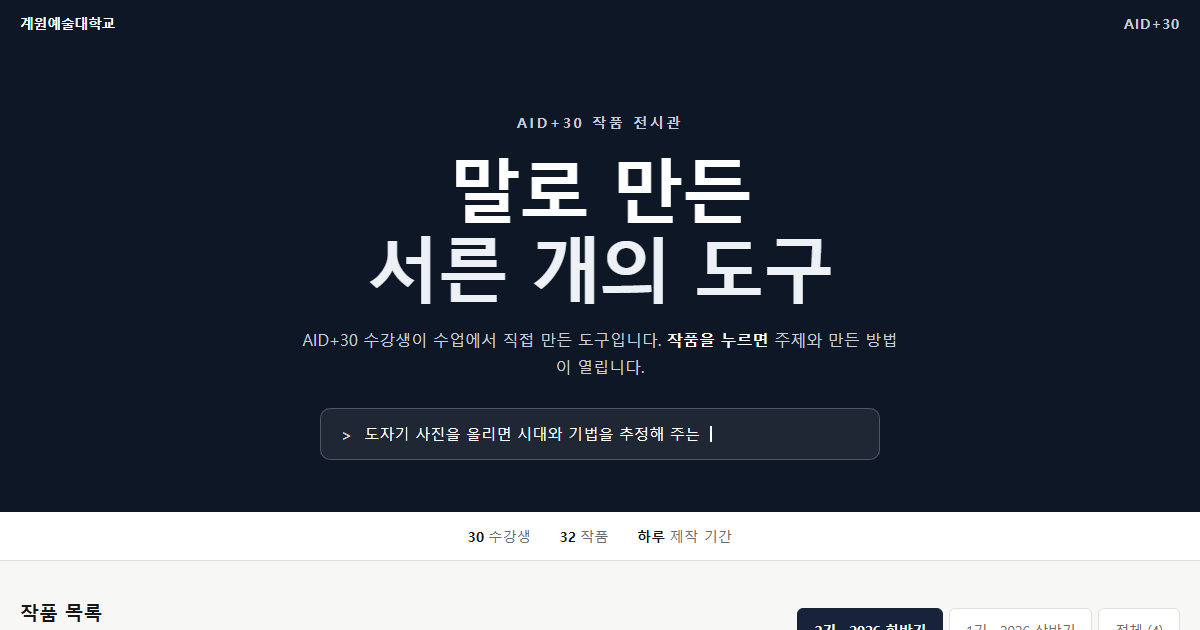
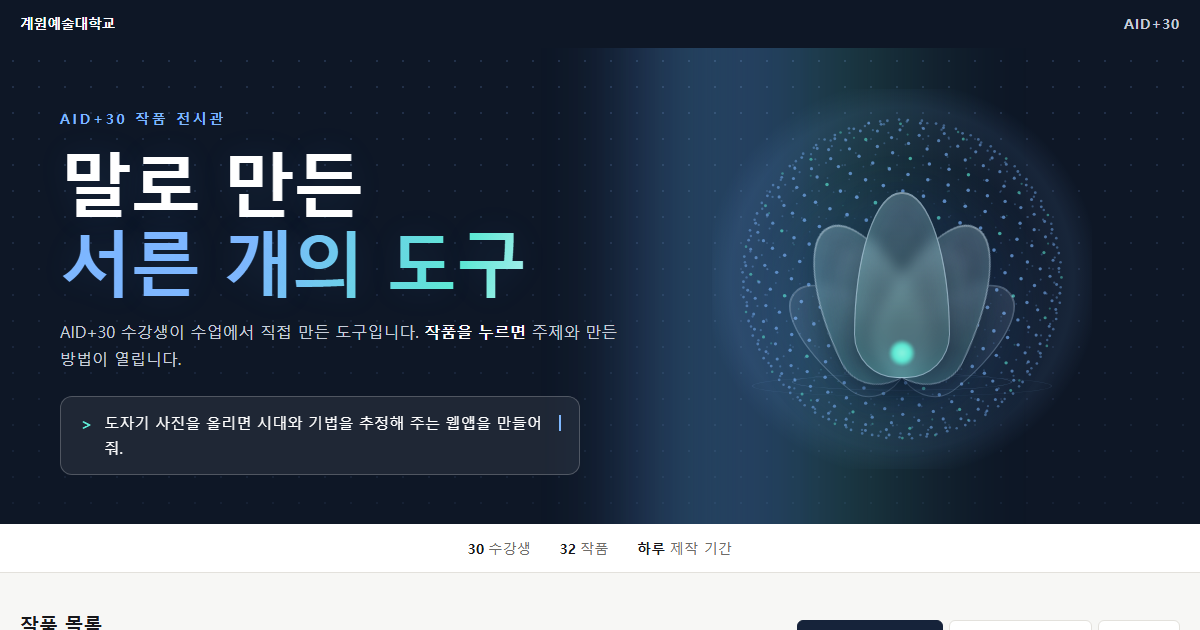
feat: 히어로 2단 구성 — 무대 배경·시머·글래스 연꽃·닷 스피어
- 부여 전시관 원형의 히어로 화면 구성 참조 (사용자 지시로 명세 3절 '버릴 것' 일부 채택)
- 왼쪽 카피 + 오른쪽 연출 2단 그리드, 점 격자·빔 스윕 무대 배경
- 강조 줄 그라데이션 + 시머, 타이핑 카드 글래스·플로팅
- 연출 색 전부 :root 토큰화, 캔버스 색도 토큰에서 읽음
- prefers-reduced-motion: 전 연출 최종 상태 즉시 표시, 닷 스피어는 정지 화면
- og.png 재캡처

diff --git a/index.html b/index.html
@@ -41,6 +41,23 @@
   --glass-bg:          rgba(255,255,255,.07);
   --glass-line:        rgba(255,255,255,.22);
 
+  /* 히어로 연출 색 — 어두운 무대 위 빛 포인트 (부여 원형 참조) */
+  --hero-accent-1:    #7FB8FF;              /* 하늘빛 포인트 */
+  --hero-accent-2:    #5EEAD4;              /* 민트빛 포인트 */
+  --hero-accent-2-hi: #8CF3DF;              /* 민트 하이라이트 (연꽃 심) */
+  --hero-accent-3:    #EAF6FF;              /* 시머 하이라이트 */
+  --stage-dot:        rgba(140,180,255,.20);/* 점 격자 */
+  --beam-a:           rgba(90,160,255,.30); /* 빔 스윕 */
+  --beam-b:           rgba(94,234,212,.18);
+  --halo-a:           rgba(94,234,212,.16); /* 후광 */
+  --halo-b:           rgba(90,160,255,.10);
+  --petal-line:       rgba(185,220,255,.38);/* 글래스 연꽃 */
+  --petal-fill:       rgba(205,230,255,.16);
+  --petal-front-line: rgba(205,235,255,.5);
+  --petal-front-fill: rgba(215,238,255,.22);
+  --petal-glow:       rgba(90,160,255,.08);
+  --ripple-line:      rgba(150,195,255,.28);
+
   /* 타이포 — 웹폰트 없음, 시스템 폰트만 */
   --font-display: "Pretendard","Apple SD Gothic Neo","Malgun Gothic",sans-serif;
   --font-body:    "Pretendard","Apple SD Gothic Neo","Malgun Gothic",sans-serif;
@@ -67,49 +84,187 @@ button{font-family:inherit;cursor:pointer}
 .gov-bar .org img{height:30px;width:auto}
 .gov-bar .prog{color:var(--on-brand-muted);font-weight:600;letter-spacing:.08em;white-space:nowrap}
 
-/* ---------- 히어로 ---------- */
+/* ---------- 히어로 — 2단 구성: 왼쪽 카피 + 오른쪽 연출 무대 ---------- */
 .hero{
+  position:relative;overflow:hidden;
   background:var(--brand-deep);color:var(--on-brand);
-  text-align:center;padding:60px 20px 52px;
+  padding:56px 24px 48px;
 }
-.hero .eyebrow{
+/* 무대 배경: 점 격자 + 빔 스윕 */
+.stage{position:absolute;inset:0;z-index:1;pointer-events:none}
+.grid-dots{
+  position:absolute;inset:0;
+  background-image:radial-gradient(var(--stage-dot) 1px, transparent 1.4px);
+  background-size:26px 26px;
+  -webkit-mask-image:linear-gradient(180deg,rgba(0,0,0,.85),rgba(0,0,0,.3));
+  mask-image:linear-gradient(180deg,rgba(0,0,0,.85),rgba(0,0,0,.3));
+}
+.beam{
+  position:absolute;top:-45%;height:190%;width:32vw;min-width:300px;left:50%;
+  background:linear-gradient(90deg,transparent,var(--beam-a) 45%,var(--beam-b) 58%,transparent);
+  filter:blur(36px);mix-blend-mode:screen;
+  animation:sweep 28s linear infinite;
+}
+.beam.b2{width:14vw;min-width:160px;opacity:.65;animation-delay:-14s}
+@keyframes sweep{
+  from{transform:translateX(-92vw) rotate(14deg)}
+  to  {transform:translateX(92vw)  rotate(14deg)}
+}
+.hero-inner{
+  position:relative;z-index:2;
+  max-width:1080px;margin:0 auto;
+  display:grid;grid-template-columns:1.08fr .92fr;
+  align-items:center;gap:44px;
+  text-align:left;
+}
+.hero-copy{min-width:0}
+.eyebrow{
   display:inline-block;font-size:.85rem;font-weight:700;
-  letter-spacing:.22em;color:var(--on-brand-muted);
+  letter-spacing:.22em;color:var(--hero-accent-1);
 }
 .hero h1{
   font-family:var(--font-display);
   font-size:clamp(2.4rem,6vw,4.6rem);font-weight:700;
   letter-spacing:-.03em;line-height:1.1;
-  margin:14px 0 18px;
+  margin:12px 0 16px;
+  text-shadow:0 0 34px var(--halo-b);
 }
-.hero h1 .accent{color:var(--brand-tint)}  /* 강조 줄 (titleGlow) */
-.hero-sub{font-size:1rem;color:var(--on-brand-muted);max-width:600px;margin:0 auto}
+/* 강조 줄 — 그라데이션 글자 + 빛 훑기(시머) */
+.hero h1 .glow{
+  background:linear-gradient(110deg,var(--hero-accent-1) 18%,var(--hero-accent-2) 38%,var(--hero-accent-3) 50%,var(--hero-accent-2) 62%,var(--hero-accent-1) 82%);
+  background-size:230% 100%;
+  -webkit-background-clip:text;background-clip:text;color:transparent;
+  display:inline-block;opacity:0;transform:translateY(24px);
+  animation:rise .6s .38s cubic-bezier(.2,.7,.3,1) both,
+            shimmer 7s ease-in-out 1.6s infinite;
+}
+@keyframes shimmer{0%,100%{background-position:0% 0}50%{background-position:100% 0}}
+.hero-sub{font-size:1rem;color:var(--on-brand-muted);max-width:560px}
 .hero-sub b{color:var(--on-brand);font-weight:700}
 
-/* 모션 1 — 제목 단어별 등장 (0.14s 간격) */
+/* 모션 — 단어별 등장 · 요소 등장 */
 .w{display:inline-block;opacity:0;transform:translateY(24px);
   animation:rise .6s cubic-bezier(.2,.7,.3,1) both}
+.fx{opacity:0;transform:translateY(14px);
+  animation:rise .6s .7s cubic-bezier(.2,.7,.3,1) both}
 @keyframes rise{to{opacity:1;transform:translateY(0)}}
+@keyframes floatY{0%,100%{transform:translateY(0)}50%{transform:translateY(-6px)}}
 
-/* 모션 2 — 타이핑 카드. 문구는 ITEMS의 prompt·제목에서 생성 */
+/* 타이핑 카드 — 문구는 ITEMS의 prompt·제목에서 생성 */
 .prompt-line{
-  max-width:560px;margin:28px auto 0;
-  background:var(--glass-bg);border:1px solid var(--glass-line);
-  border-radius:10px;padding:12px 18px;text-align:left;
+  max-width:520px;margin:24px 0 0;
+  background:var(--glass-bg);
+  backdrop-filter:blur(10px);-webkit-backdrop-filter:blur(10px);
+  border:1px solid var(--glass-line);
+  border-radius:12px;padding:13px 18px;text-align:left;
   font-size:.95rem;color:var(--on-brand);
   display:flex;align-items:flex-start;gap:10px;
+  opacity:0;
+  animation:rise .6s .8s cubic-bezier(.2,.7,.3,1) both,
+            floatY 6s ease-in-out 1.8s infinite;
 }
-.prompt-line .mark{color:var(--on-brand-muted);font-weight:700}
+.prompt-line .mark{color:var(--hero-accent-2);font-weight:900}
 .prompt-line .typed{min-height:1.7em}
 .caret{display:inline-block;width:2px;height:1.05em;
   margin-top:.35em;flex:none;
-  background:var(--on-brand);animation:blink 1s steps(1) infinite}
+  background:var(--hero-accent-1);animation:blink 1s steps(1) infinite}
 @keyframes blink{50%{opacity:0}}
 
-/* 감속 설정 — 연출을 최종 상태로 즉시 표시 */
+/* ---------- 오른쪽 연출: 디지털 닷 스피어 + 글래스 연꽃 ---------- */
+.hero-visual{position:relative;display:flex;justify-content:center;align-items:flex-end;min-height:280px}
+.globe{
+  position:absolute;left:50%;top:46%;
+  width:380px;height:380px;
+  transform:translate(-50%,-50%);
+  pointer-events:none;opacity:.9;
+}
+.lotus{
+  position:relative;z-index:1;width:330px;height:255px;
+  animation:floatY 8s ease-in-out 2s infinite;
+}
+.lotus::before{ /* 후광 */
+  content:"";position:absolute;left:50%;top:52%;width:300px;height:300px;
+  transform:translate(-50%,-50%);
+  background:radial-gradient(circle,var(--halo-a) 0%,var(--halo-b) 45%,transparent 70%);
+  filter:blur(6px);
+}
+.petal{
+  position:absolute;left:50%;bottom:52px;
+  transform-origin:50% 100%;
+  border:1px solid var(--petal-line);
+  background:linear-gradient(180deg,var(--petal-fill) 0%,rgba(255,255,255,.03) 70%);
+  box-shadow:inset 0 1px 0 rgba(255,255,255,.28), inset 0 -8px 22px var(--petal-glow);
+  border-radius:50% 50% 46% 46% / 78% 78% 24% 24%;
+  /* 반복 개화(5초 주기): 피어남 → 만개 유지 → 오므림 → 다시 개화 */
+  --r:0deg; --d:.8s; --po:1;
+  opacity:0;
+  animation:bloomLoop 5s ease-in-out infinite;
+  animation-delay:var(--d);
+}
+@keyframes bloomLoop{
+  0%{transform:rotate(calc(var(--r) * .12)) scale(.5,.3);opacity:0}
+  12%{opacity:var(--po)}
+  20%,80%{transform:rotate(var(--r)) scale(1,1);opacity:var(--po)}
+  93%,100%{transform:rotate(calc(var(--r) * .12)) scale(.5,.3);opacity:0}
+}
+.pb{width:84px;height:138px;margin-left:-42px;--po:.75}
+.p1{--r:-52deg;--d:.75s} .p2{--r:-19deg;--d:.95s}
+.p3{--r:19deg;--d:.95s}  .p4{--r:52deg;--d:.75s}
+.pf{
+  width:96px;height:186px;margin-left:-48px;
+  background:linear-gradient(180deg,var(--petal-front-fill) 0%,rgba(255,255,255,.05) 72%);
+  border-color:var(--petal-front-line);
+  backdrop-filter:blur(7px);-webkit-backdrop-filter:blur(7px);
+  box-shadow:inset 0 1px 0 rgba(255,255,255,.35), inset 0 -10px 26px var(--halo-a),
+             0 10px 34px rgba(8,18,40,.35);
+}
+.p5{--r:-26deg;--d:1.15s;height:168px}
+.p6{--r:0deg;--d:1.35s}
+.p7{--r:26deg;--d:1.15s;height:168px}
+.core{
+  position:absolute;left:50%;bottom:64px;width:26px;height:26px;
+  margin-left:-13px;border-radius:50%;
+  background:radial-gradient(circle,var(--hero-accent-2-hi) 0%,var(--hero-accent-2) 45%,transparent 75%);
+  filter:blur(1px);opacity:0;
+  animation:coreLoop 5s ease-in-out infinite;
+  animation-delay:1.35s;
+}
+@keyframes coreLoop{
+  0%,17%{opacity:0;transform:scale(.2)}
+  26%{opacity:.75;transform:scale(1)}
+  50%{opacity:1;transform:scale(1.16)}
+  78%{opacity:.75;transform:scale(1)}
+  91%,100%{opacity:0;transform:scale(.2)}
+}
+.ripple{
+  position:absolute;left:50%;border:1px solid var(--ripple-line);
+  border-radius:50%;transform:translateX(-50%) scaleY(.32);
+  opacity:0;--o:1;
+  animation:rippleIn 1s 2s ease both;
+}
+@keyframes rippleIn{to{opacity:var(--o)}}
+.r1{bottom:22px;width:220px;height:52px}
+.r2{bottom:12px;width:300px;height:64px;--o:.5}
+
+@media (max-width:900px){
+  .hero-inner{grid-template-columns:1fr;text-align:center;gap:10px}
+  .hero-sub{margin:0 auto}
+  .prompt-line{margin:24px auto 0}
+  .hero-visual{margin-top:22px;min-height:0}
+  .lotus{transform:scale(.72);transform-origin:bottom center;margin-bottom:-30px;animation:none}
+  .globe{width:340px;height:340px}
+}
+
+/* 감속 설정 — 모든 연출을 최종 상태로 즉시 표시 */
 @media (prefers-reduced-motion: reduce){
-  .w{animation:none;opacity:1;transform:none}
+  .w,.fx,.hero h1 .glow{animation:none;opacity:1;transform:none}
   .caret{animation:none}
+  .beam{animation:none}
+  .prompt-line{animation:none;opacity:1}
+  .lotus{animation:none}
+  .petal{animation:none;opacity:var(--po);transform:rotate(var(--r))}
+  .core{animation:none;opacity:1;transform:scale(1)}
+  .ripple{animation:none;opacity:var(--o)}
 }
 
 /* ---------- 소개 스트립 ---------- */
@@ -259,10 +414,28 @@ footer .org{color:var(--on-brand);font-weight:700;font-size:.9rem}
 
 <!-- ================= 히어로 ================= -->
 <header class="hero">
-  <p class="eyebrow" id="eyebrowSlot"></p>
-  <h1 id="titleSlot"></h1>
-  <p class="hero-sub" id="subSlot"></p>
-  <div class="prompt-line" aria-hidden="true"><span class="mark">＞</span><span class="typed" id="typeText"></span><span class="caret"></span></div>
+  <div class="stage" aria-hidden="true">
+    <div class="grid-dots"></div>
+    <div class="beam b1"></div>
+    <div class="beam b2"></div>
+  </div>
+  <div class="hero-inner">
+    <div class="hero-copy">
+      <p class="eyebrow" id="eyebrowSlot"></p>
+      <h1 id="titleSlot"></h1>
+      <p class="hero-sub" id="subSlot"></p>
+      <div class="prompt-line" aria-hidden="true"><span class="mark">＞</span><span class="typed" id="typeText"></span><span class="caret"></span></div>
+    </div>
+    <div class="hero-visual fx" aria-hidden="true">
+      <canvas class="globe" id="globe"></canvas>
+      <div class="lotus">
+        <span class="ripple r2"></span><span class="ripple r1"></span>
+        <i class="petal pb p1"></i><i class="petal pb p2"></i><i class="petal pb p3"></i><i class="petal pb p4"></i>
+        <i class="petal pf p5"></i><i class="petal pf p7"></i><i class="petal pf p6"></i>
+        <b class="core"></b>
+      </div>
+    </div>
+  </div>
 </header>
 
 <!-- ================= 소개 스트립 ================= -->
@@ -332,7 +505,7 @@ $("titleSlot").innerHTML =
   SITE.titleWords.map((w, i) =>
     `<span class="w" style="animation-delay:${(0.10 + i * 0.14).toFixed(2)}s">${w}</span>`
   ).join(" ") +
-  `<br><span class="w accent" style="animation-delay:${(0.10 + SITE.titleWords.length * 0.14).toFixed(2)}s">${SITE.titleGlow}</span>`;
+  `<br><span class="glow">${SITE.titleGlow}</span>`;
 $("subSlot").innerHTML = SITE.subHTML;
 
 /* ---------- 소개 스트립 ---------- */
@@ -356,6 +529,74 @@ $("statsSlot").innerHTML =
     if (del && ci === 0) { del = false; pi = (pi + 1) % phrases.length; }
     setTimeout(tick, del ? 30 : 90);
   })();
+})();
+
+/* ---------- 디지털 닷 스피어 — 점으로 된 구가 연꽃 뒤에서 천천히 자전 ---------- */
+(function(){
+  const cv = $("globe");
+  if (!cv) return;
+  const ctx = cv.getContext("2d");
+  const DPR = Math.min(window.devicePixelRatio || 1, 1.5);
+  /* 색은 :root 토큰에서 읽어 옵니다 */
+  const rgbOf = name => {
+    const h = getComputedStyle(document.documentElement).getPropertyValue(name).trim();
+    const n = parseInt(h.slice(1), 16);
+    return `${(n >> 16) & 255},${(n >> 8) & 255},${n & 255}`;
+  };
+  const BLUE = rgbOf("--hero-accent-1"), TEAL = rgbOf("--hero-accent-2");
+  let raf = null, th = 0;
+
+  const N = 720, TILT = -0.21, SPEED = 0.0016;
+  const GA = Math.PI * (3 - Math.sqrt(5));
+  const pts = [];
+  for (let i = 0; i < N; i++){
+    const y = 1 - (i / (N - 1)) * 2;
+    const r = Math.sqrt(1 - y * y);
+    const a = GA * i;
+    pts.push({ x: Math.cos(a) * r, y, z: Math.sin(a) * r,
+               tw: Math.random() * 6.283, teal: i % 9 === 0 });
+  }
+  function size(){
+    const w = cv.clientWidth, h = cv.clientHeight;
+    cv.width = w * DPR; cv.height = h * DPR;
+    ctx.setTransform(DPR, 0, 0, DPR, 0, 0);
+  }
+  function frame(){
+    const w = cv.clientWidth, h = cv.clientHeight;
+    const cx = w / 2, cy = h / 2, R = w * 0.42;
+    ctx.clearRect(0, 0, w, h);
+    const halo = ctx.createRadialGradient(cx, cy, R * .55, cx, cy, R * 1.25);
+    halo.addColorStop(0, `rgba(${BLUE},0)`);
+    halo.addColorStop(.75, `rgba(${BLUE},.10)`);
+    halo.addColorStop(1, `rgba(${BLUE},0)`);
+    ctx.fillStyle = halo;
+    ctx.fillRect(0, 0, w, h);
+    const cosT = Math.cos(th), sinT = Math.sin(th);
+    const cosK = Math.cos(TILT), sinK = Math.sin(TILT);
+    const t = performance.now() * 0.001;
+    for (const p of pts){
+      const x1 = p.x * cosT + p.z * sinT;
+      const z1 = -p.x * sinT + p.z * cosT;
+      const x2 = x1 * cosK - p.y * sinK;
+      const y2 = x1 * sinK + p.y * cosK;
+      const sx = cx + x2 * R, sy = cy + y2 * R;
+      const depth = (z1 + 1) / 2;
+      const twk = REDUCED ? 1 : .85 + Math.sin(t * 1.4 + p.tw) * .15;
+      const alpha = ((0.10 + depth * 0.75) * twk).toFixed(3);
+      ctx.fillStyle = `rgba(${p.teal ? TEAL : BLUE},${alpha})`;
+      ctx.beginPath();
+      ctx.arc(sx, sy, 0.7 + depth * 1.25, 0, 6.283);
+      ctx.fill();
+    }
+  }
+  function step(){ th += SPEED; frame(); raf = requestAnimationFrame(step); }
+  function start(){ if (!raf && !REDUCED) raf = requestAnimationFrame(step); }
+  function stop(){ cancelAnimationFrame(raf); raf = null; }
+  window.addEventListener("resize", () => { size(); if (REDUCED) frame(); });
+  document.addEventListener("visibilitychange", () => document.hidden ? stop() : start());
+  size();
+  if (REDUCED) frame();   /* 감속 설정: 자전 없이 정지 화면 한 장 */
+  else start();
 })();
 
 /* ============================================================
